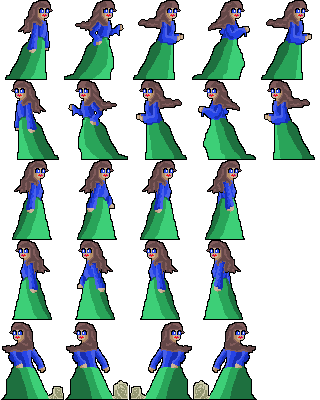
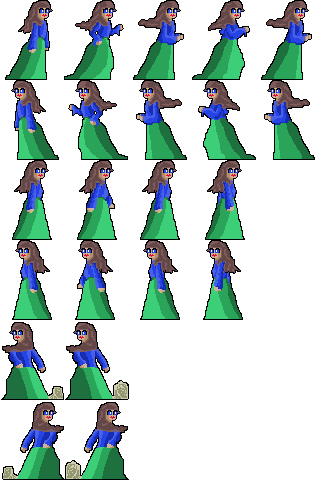
Added all available princess animations

diff --git a/src/Player.py b/src/Player.py
@@ -9,7 +9,7 @@ class Player(object):
 
 		#images
 		#self.image = pygame.image.load("../assets/Art/PlayerPlaceholder.png").convert_alpha()
-		self.image = pygame.image.load("../assets/Art/princess_run.png").convert_alpha()
+		self.image = pygame.image.load("../assets/Art/princess_master.png").convert_alpha()
 		self.duck_image = pygame.image.load("../assets/Art/PlayerDuckingPlaceholder.png").convert_alpha()
 		
 		#rects
@@ -43,6 +43,7 @@ class Player(object):
 		self.frame = 0
 		self.framerate = 4
 		self.framebuffer = 0
+		self.framelength = 5
 
 	def update(self, dt, screen_rect):
 		future_rect = self.rect.move(0,0)
@@ -70,9 +71,12 @@ class Player(object):
 		if self.movement[2] and not self.ducking:
 			if self.xvel > 0:
 				self.xvel -= self.xdecel*dt
+				self.direction = 4
+				self.framelength = 2
 			else:
 				self.xvel -= self.xaccel*dt
-			self.direction = 1
+				self.framelength = 4
+				self.direction = 1
 			if self.xvel < -self.xmax:
 				self.xvel = -self.xmax
 
@@ -80,14 +84,19 @@ class Player(object):
 		if self.movement[3] and not self.ducking:
 			if self.xvel < 0:
 				self.xvel += self.xdecel*dt
+				self.direction = 5
+				self.framelength = 2
 			else:
 				self.xvel += self.xaccel*dt
-			self.direction = 0
+				self.framelength = 4
+				self.direction = 0
 			if self.xvel > self.xmax:
 				self.xvel = self.xmax
 
 		if self.movement[2] == self.movement[3]:
 			self.deceleration("x", dt)
+			self.direction = 2
+			self.framelength = 4
 
 
 		if self.start_jump:
@@ -121,16 +130,13 @@ class Player(object):
 
 
 		#sprite changing
-		if self.movement == [False, False, False, False]:
+		
+		self.framebuffer += dt
+		if self.framebuffer > .5/self.framerate:
+			self.framebuffer = 0
+			self.frame += 1
+		if self.frame > self.framelength-1:
 			self.frame = 0
-		else:
-			self.framebuffer += dt
-			if self.framebuffer > .5/self.framerate:
-				self.framebuffer = 0
-				self.frame += 1
-			if self.frame > 3:
-				self.frame = 0
-
 
 	def deceleration(self, dimension, dt):
 		if dimension == "x":
